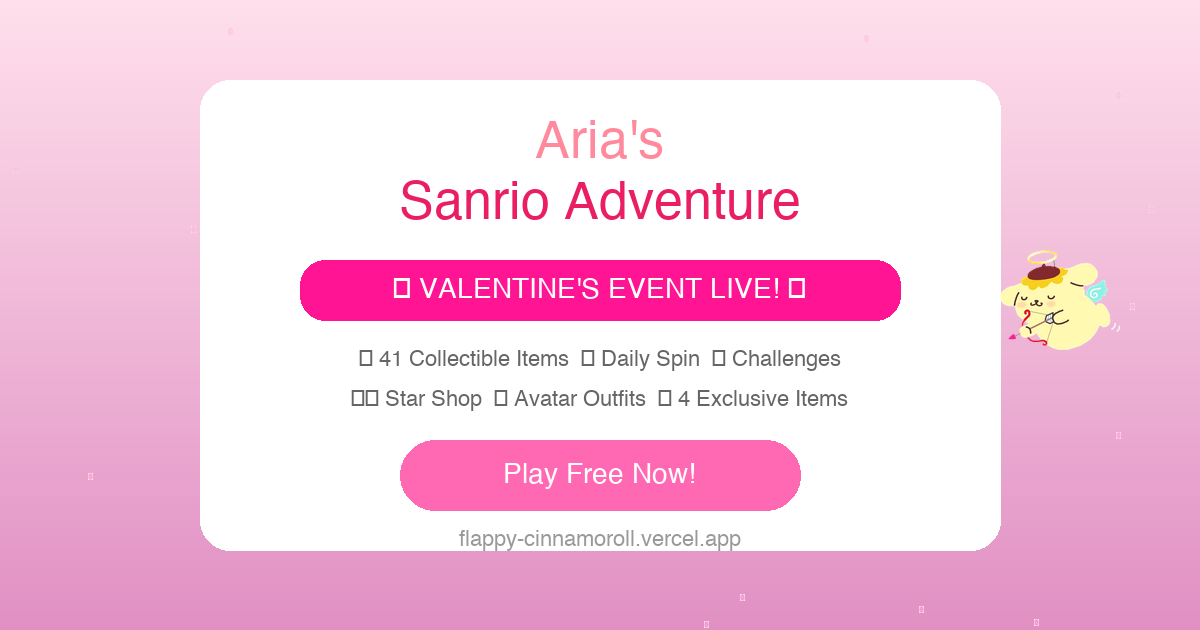
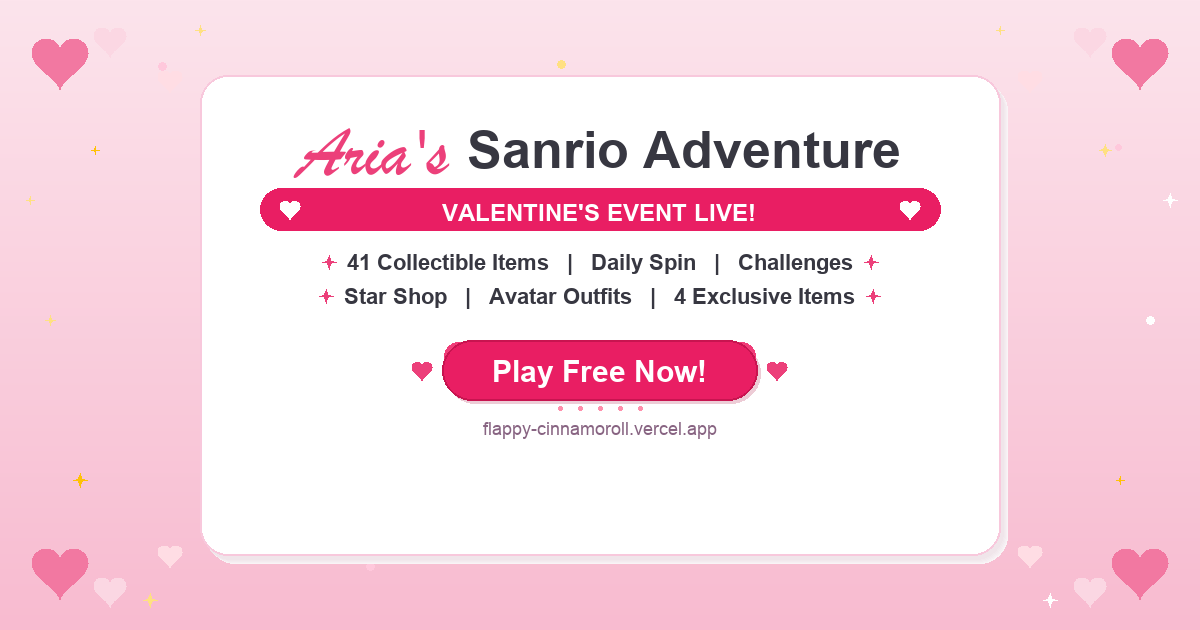
v10.2: blind box reveal upgrade, achievements polish, OG image fix
- Blind box reveal card: 180x220 → 240x290, full-width character images,
  pastel-tinted rarity backgrounds, drop rate pills, bigger text
- Achievements: static kawaii bg (no shaking), bigger cards 72→82px,
  larger fonts, warm tints for unlocked trophies
- OG image: regenerated without emojis (were rendering as tofu squares),
  now uses PIL-drawn hearts and sparkle shapes

diff --git a/index.html b/index.html
@@ -2341,7 +2341,7 @@ function drawHUD() {
   }
   // Version always visible
   X.fillStyle = 'rgba(255,255,255,0.4)'; X.font = 'bold 10px "Quicksand",sans-serif';
-  X.textAlign = 'right'; X.fillText('v10.1', W-8, H-8);
+  X.textAlign = 'right'; X.fillText('v10.2', W-8, H-8);
   // Backpack icon (top-left)
   drawBackpackIcon(14, 64);
 
@@ -2624,7 +2624,7 @@ function drawCollection() {
   X.fillText('Back', W/2, H - 30);
 
   X.fillStyle = 'rgba(0,0,0,0.2)'; X.font = 'bold 10px "Quicksand",sans-serif';
-  X.textAlign = 'right'; X.fillText('v10.1', W-14, H-12);
+  X.textAlign = 'right'; X.fillText('v10.2', W-14, H-12);
 }
 
 function drawBlindBoxScreen() {
@@ -2722,74 +2722,96 @@ function drawBlindBoxScreen() {
     const fadeIn = Math.min(1, bbState.timer * 3);
     X.globalAlpha = fadeIn;
 
-    // Rarity glow
-    const grd = X.createRadialGradient(W/2, H*0.35, 10, W/2, H*0.35, 140);
-    grd.addColorStop(0, rc + '66'); grd.addColorStop(1, 'transparent');
+    // Rarity glow behind card
+    const grd = X.createRadialGradient(W/2, H*0.38, 20, W/2, H*0.38, 180);
+    grd.addColorStop(0, rc + '44'); grd.addColorStop(1, 'transparent');
     X.fillStyle = grd; X.fillRect(0, 0, W, H);
 
-    // Card
-    X.fillStyle = '#fff'; rrc(W/2, H*0.35, 180, 220, 20);
-    X.strokeStyle = rc; X.lineWidth = 3;
+    // Card - bigger and pastel-tinted
+    const cardW = 240, cardH = 290, cardY = H*0.38, cardR = 22;
+    const rarityBg = {common:'#fff',rare:'#f0f8ff',epic:'#faf0ff',legendary:'#fffcf0',secret:'#fff0f5'};
+    X.fillStyle = rarityBg[r.rarity] || '#fff'; rrc(W/2, cardY, cardW, cardH, cardR);
+    // Rarity border
+    X.strokeStyle = rc; X.lineWidth = r.rarity==='legendary'||r.rarity==='secret' ? 4 : 3;
+    const chw=cardW/2, chh=cardH/2;
     X.beginPath();
-    const cw=90, ch=110;
-    X.moveTo(W/2-cw+20, H*0.35-ch); X.lineTo(W/2+cw-20, H*0.35-ch);
-    X.quadraticCurveTo(W/2+cw, H*0.35-ch, W/2+cw, H*0.35-ch+20);
-    X.lineTo(W/2+cw, H*0.35+ch-20); X.quadraticCurveTo(W/2+cw, H*0.35+ch, W/2+cw-20, H*0.35+ch);
-    X.lineTo(W/2-cw+20, H*0.35+ch); X.quadraticCurveTo(W/2-cw, H*0.35+ch, W/2-cw, H*0.35+ch-20);
-    X.lineTo(W/2-cw, H*0.35-ch+20); X.quadraticCurveTo(W/2-cw, H*0.35-ch, W/2-cw+20, H*0.35-ch);
+    X.moveTo(W/2-chw+cardR, cardY-chh); X.lineTo(W/2+chw-cardR, cardY-chh);
+    X.quadraticCurveTo(W/2+chw, cardY-chh, W/2+chw, cardY-chh+cardR);
+    X.lineTo(W/2+chw, cardY+chh-cardR); X.quadraticCurveTo(W/2+chw, cardY+chh, W/2+chw-cardR, cardY+chh);
+    X.lineTo(W/2-chw+cardR, cardY+chh); X.quadraticCurveTo(W/2-chw, cardY+chh, W/2-chw, cardY+chh-cardR);
+    X.lineTo(W/2-chw, cardY-chh+cardR); X.quadraticCurveTo(W/2-chw, cardY-chh, W/2-chw+cardR, cardY-chh);
     X.closePath(); X.stroke();
 
-    // Rarity banner
-    X.fillStyle = rc; X.font = 'bold 13px "Fredoka One",sans-serif'; X.textAlign = 'center';
+    // Rarity banner pill at top
     const banners = {common:'COMMON',rare:'RARE!',epic:'EPIC!!',legendary:'LEGENDARY!!!',secret:'SECRET!!!!!'};
-    X.fillText(banners[r.rarity] || 'COMMON', W/2, H*0.35 - 84);
+    const bLabel = banners[r.rarity] || 'COMMON';
+    X.fillStyle = rc; X.globalAlpha = fadeIn * 0.18; rrc(W/2, cardY - chh + 28, 120, 22, 11); X.globalAlpha = fadeIn;
+    X.fillStyle = rc; X.font = 'bold 14px "Fredoka One",sans-serif'; X.textAlign = 'center';
+    X.fillText(bLabel, W/2, cardY - chh + 32);
 
-    // Item visual
-    X.save(); X.translate(W/2, H*0.35 - 10);
-    if (si.charKey && imgs[si.charKey]) { drawImg(imgs[si.charKey], 0, 0, 72, 72); }
-    else { X.font = '48px sans-serif'; X.textAlign = 'center'; X.fillText(si.emoji, 0, 16); }
-    X.restore();
-
-    // Name
-    X.fillStyle = '#333'; X.font = 'bold 15px "Fredoka One",sans-serif'; X.textAlign = 'center';
-    X.fillText(si.name, W/2, H*0.35 + 68);
-    // NEW or count
-    if (r.isNew) {
-      X.fillStyle = '#ff1744'; X.font = 'bold 12px "Fredoka One",sans-serif';
-      X.fillText('✨ NEW! ✨', W/2, H*0.35 + 86);
+    // Character image - FULL CARD WIDTH (same approach as collection cards)
+    const imgY = cardY - 20;
+    if (si.charKey && imgs[si.charKey]) {
+      // Rarity glow behind character
+      if (r.rarity === 'legendary' || r.rarity === 'secret' || r.rarity === 'epic') {
+        X.save(); X.globalAlpha = fadeIn * 0.2;
+        X.fillStyle = r.rarity === 'legendary' ? '#ffd700' : r.rarity === 'secret' ? '#ff69b4' : '#ab47bc';
+        X.beginPath(); X.arc(W/2, imgY, 60, 0, Math.PI*2); X.fill();
+        X.restore(); X.globalAlpha = fadeIn;
+      }
+      drawImg(imgs[si.charKey], W/2, imgY, cardW - 40, 100);
     } else {
-      X.fillStyle = '#999'; X.font = '11px "Quicksand",sans-serif';
-      X.fillText('x' + r.count + (r.count >= 10 ? ' SHINY!' : ''), W/2, H*0.35 + 86);
+      X.font = '64px sans-serif'; X.textAlign = 'center'; X.fillText(si.emoji, W/2, imgY + 22);
     }
 
-    // Milestone share prompt on collection popup
+    // Name - big and bold
+    X.fillStyle = '#333'; X.font = 'bold 20px "Fredoka One",sans-serif'; X.textAlign = 'center';
+    X.fillText(si.name, W/2, cardY + 60);
+
+    // Rarity + drop rate pill
+    const dropPct = RARITY_TIERS.find(rt => rt.id === r.rarity);
+    const rlabel = tier.label.toUpperCase() + (dropPct ? ' ' + dropPct.dropRate + '%' : '');
+    X.fillStyle = rc; X.globalAlpha = fadeIn * 0.15; rrc(W/2, cardY + 80, 100, 18, 9); X.globalAlpha = fadeIn;
+    X.fillStyle = rc; X.font = 'bold 10px "Quicksand",sans-serif'; X.textAlign = 'center';
+    X.fillText(rlabel, W/2, cardY + 83);
+
+    // NEW or count
+    if (r.isNew) {
+      X.fillStyle = '#ff1744'; X.font = 'bold 14px "Fredoka One",sans-serif';
+      X.fillText('\u2728 NEW! \u2728', W/2, cardY + 104);
+    } else {
+      X.fillStyle = '#999'; X.font = '12px "Quicksand",sans-serif';
+      X.fillText('x' + r.count + (r.count >= 10 ? ' SHINY!' : ''), W/2, cardY + 104);
+    }
+
+    // Milestone share prompt
     const cc = getCollectedCount();
     const milestones = [5, 10, 20, 30];
     if (r.isNew && milestones.includes(cc)) {
-      X.fillStyle = '#ff6b00'; X.font = 'bold 12px "Fredoka One",sans-serif'; X.textAlign = 'center';
-      X.fillText('\uD83C\uDF89 ' + cc + ' items collected!', W/2, H*0.35 + 102);
-      X.fillStyle = '#25d366'; X.font = 'bold 11px "Quicksand",sans-serif';
-      X.fillText('\uD83D\uDCF2 Tell your friends!', W/2, H*0.35 + 118);
+      X.fillStyle = '#ff6b00'; X.font = 'bold 13px "Fredoka One",sans-serif'; X.textAlign = 'center';
+      X.fillText('\uD83C\uDF89 ' + cc + ' items collected!', W/2, cardY + 122);
+      X.fillStyle = '#25d366'; X.font = 'bold 12px "Quicksand",sans-serif';
+      X.fillText('\uD83D\uDCF2 Tell your friends!', W/2, cardY + 140);
     }
 
     X.globalAlpha = 1;
 
     // Buttons
-    const btnBase = H*0.35 + 130 + (r.isNew && milestones.includes(cc) ? 30 : 0);
+    const btnBase = cardY + chh + 30 + (r.isNew && milestones.includes(cc) ? 20 : 0);
     if (saveData.stars >= 5) {
-      X.fillStyle = '#3f51b5'; rrc(W/2, btnBase, 220, 40, 20);
-      X.fillStyle = '#fff'; X.font = 'bold 14px "Fredoka One",sans-serif'; X.textAlign = 'center';
-      X.fillText('Open Another (5⭐)', W/2, btnBase + 2);
+      X.fillStyle = '#3f51b5'; rrc(W/2, btnBase, 230, 44, 22);
+      X.fillStyle = '#fff'; X.font = 'bold 15px "Fredoka One",sans-serif'; X.textAlign = 'center';
+      X.fillText('Open Another (5\u2B50)', W/2, btnBase + 3);
     }
     // Share button for milestones
     if (r.isNew && milestones.includes(cc)) {
-      X.fillStyle = '#25d366'; rrc(W/2, btnBase + 48, 180, 34, 17);
-      X.fillStyle = '#fff'; X.font = 'bold 12px "Fredoka One",sans-serif'; X.textAlign = 'center';
-      X.fillText('\uD83D\uDCF2 Share Milestone!', W/2, btnBase + 50);
+      X.fillStyle = '#25d366'; rrc(W/2, btnBase + 52, 190, 38, 19);
+      X.fillStyle = '#fff'; X.font = 'bold 13px "Fredoka One",sans-serif'; X.textAlign = 'center';
+      X.fillText('\uD83D\uDCF2 Share Milestone!', W/2, btnBase + 54);
     }
-    X.fillStyle = 'rgba(255,255,255,0.3)'; rrc(W/2, btnBase + (r.isNew && milestones.includes(cc) ? 90 : 50), 120, 36, 18);
-    X.fillStyle = '#fff'; X.font = 'bold 13px "Fredoka One",sans-serif'; X.textAlign = 'center';
-    X.fillText('Close', W/2, btnBase + (r.isNew && milestones.includes(cc) ? 92 : 52));
+    X.fillStyle = 'rgba(255,255,255,0.3)'; rrc(W/2, btnBase + (r.isNew && milestones.includes(cc) ? 96 : 54), 130, 40, 20);
+    X.fillStyle = '#fff'; X.font = 'bold 14px "Fredoka One",sans-serif'; X.textAlign = 'center';
+    X.fillText('Close', W/2, btnBase + (r.isNew && milestones.includes(cc) ? 98 : 56));
   }
 }
 
@@ -2848,55 +2870,64 @@ function drawDailyRewards() {
 }
 
 function drawAchievements() {
-  drawBg();
-  X.fillStyle = 'rgba(255,255,255,0.95)'; rrc(W/2, H/2, W-20, H-40, 20);
+  // Static kawaii background
+  const abg = X.createLinearGradient(0, 0, 0, H);
+  abg.addColorStop(0, '#fce4ec'); abg.addColorStop(0.5, '#fff3e0'); abg.addColorStop(1, '#e8eaf6');
+  X.fillStyle = abg; X.fillRect(0, 0, W, H);
+  // Static decorative hearts
+  X.globalAlpha = 0.08; X.font = '28px sans-serif'; X.textAlign = 'center';
+  X.fillText('\u2764', 30, 100); X.fillText('\u2764', W-35, 180);
+  X.fillText('\u2764', 50, H-120); X.fillText('\u2764', W-50, H-200);
+  X.globalAlpha = 1;
+
+  X.fillStyle = 'rgba(255,255,255,0.92)'; rrc(W/2, H/2, W-16, H-32, 20);
 
   // Close X
   X.fillStyle = '#ff8a9e';
-  X.beginPath(); X.arc(W-24, 34, 16, 0, Math.PI*2); X.fill();
+  X.beginPath(); X.arc(W-22, 30, 16, 0, Math.PI*2); X.fill();
   X.fillStyle = '#fff'; X.font = 'bold 18px sans-serif'; X.textAlign = 'center'; X.textBaseline = 'middle';
-  X.fillText('✕', W-24, 34); X.textBaseline = 'alphabetic';
+  X.fillText('\u2715', W-22, 30); X.textBaseline = 'alphabetic';
 
-  X.fillStyle = '#e91e63'; X.font = 'bold 20px "Fredoka One",sans-serif'; X.textAlign = 'center';
-  X.fillText('🏆 Trophies 🏆', W/2, 52);
-  X.fillStyle = '#999'; X.font = 'bold 12px "Quicksand",sans-serif';
-  X.fillText(getAchievementCount()+'/'+ACHIEVEMENTS_DEF.length+' Unlocked', W/2, 72);
+  X.fillStyle = '#e91e63'; X.font = 'bold 22px "Fredoka One",sans-serif'; X.textAlign = 'center';
+  X.fillText('\uD83C\uDFC6 Trophies \uD83C\uDFC6', W/2, 52);
+  X.fillStyle = '#999'; X.font = 'bold 13px "Quicksand",sans-serif';
+  X.fillText(getAchievementCount()+'/'+ACHIEVEMENTS_DEF.length+' Unlocked', W/2, 74);
 
-  // 2-column grid
-  const cols = 2, pad = 12, cardW = (W - pad*3)/cols, cardH = 72;
+  // 2-column grid - bigger cards
+  const cols = 2, pad = 14, cardW = (W - pad*3)/cols, cardH = 82;
   ACHIEVEMENTS_DEF.forEach((ach, i) => {
     const col = i % cols, row = Math.floor(i / cols);
     const cx = pad + col * (cardW + pad) + cardW/2;
-    const cy = 100 + row * (cardH + 8) + cardH/2;
+    const cy = 104 + row * (cardH + 8) + cardH/2;
     const unlocked = saveData.achievements[ach.id]?.unlocked;
-    X.fillStyle = unlocked ? '#fff' : '#f5f5f5'; rrc(cx, cy, cardW-4, cardH-4, 10);
-    X.strokeStyle = unlocked ? '#ffd700' : '#eee'; X.lineWidth = unlocked ? 2 : 1;
-    X.beginPath();
+    X.fillStyle = unlocked ? '#fffcf0' : '#f8f8f8'; rrc(cx, cy, cardW-4, cardH-4, 12);
+    X.strokeStyle = unlocked ? '#ffd700' : '#eee'; X.lineWidth = unlocked ? 2.5 : 1;
     const hw=(cardW-4)/2, hh=(cardH-4)/2;
-    X.moveTo(cx-hw+10,cy-hh); X.lineTo(cx+hw-10,cy-hh); X.quadraticCurveTo(cx+hw,cy-hh,cx+hw,cy-hh+10);
-    X.lineTo(cx+hw,cy+hh-10); X.quadraticCurveTo(cx+hw,cy+hh,cx+hw-10,cy+hh);
-    X.lineTo(cx-hw+10,cy+hh); X.quadraticCurveTo(cx-hw,cy+hh,cx-hw,cy+hh-10);
-    X.lineTo(cx-hw,cy-hh+10); X.quadraticCurveTo(cx-hw,cy-hh,cx-hw+10,cy-hh);
+    X.beginPath();
+    X.moveTo(cx-hw+12,cy-hh); X.lineTo(cx+hw-12,cy-hh); X.quadraticCurveTo(cx+hw,cy-hh,cx+hw,cy-hh+12);
+    X.lineTo(cx+hw,cy+hh-12); X.quadraticCurveTo(cx+hw,cy+hh,cx+hw-12,cy+hh);
+    X.lineTo(cx-hw+12,cy+hh); X.quadraticCurveTo(cx-hw,cy+hh,cx-hw,cy+hh-12);
+    X.lineTo(cx-hw,cy-hh+12); X.quadraticCurveTo(cx-hw,cy-hh,cx-hw+12,cy-hh);
     X.closePath(); X.stroke();
     // Badge
-    X.font = unlocked ? '24px sans-serif' : '20px sans-serif'; X.textAlign = 'center';
-    X.fillText(unlocked ? ach.badge : '❓', cx - cardW/2 + 28, cy + 8);
+    X.font = unlocked ? '28px sans-serif' : '22px sans-serif'; X.textAlign = 'center';
+    X.fillText(unlocked ? ach.badge : '\u2753', cx - cardW/2 + 30, cy + 10);
     // Text
-    X.fillStyle = unlocked ? '#333' : '#bbb'; X.font = 'bold 10px "Fredoka One",sans-serif'; X.textAlign = 'left';
-    X.fillText(unlocked ? ach.name : '???', cx - cardW/2 + 50, cy - 6);
-    X.fillStyle = unlocked ? '#888' : '#ccc'; X.font = '9px "Quicksand",sans-serif';
-    X.fillText(ach.desc, cx - cardW/2 + 50, cy + 8);
+    X.fillStyle = unlocked ? '#333' : '#bbb'; X.font = 'bold 11px "Fredoka One",sans-serif'; X.textAlign = 'left';
+    X.fillText(unlocked ? ach.name : '???', cx - cardW/2 + 54, cy - 8);
+    X.fillStyle = unlocked ? '#777' : '#ccc'; X.font = '10px "Quicksand",sans-serif';
+    X.fillText(ach.desc, cx - cardW/2 + 54, cy + 8);
     if (unlocked) {
       const d = new Date(saveData.achievements[ach.id].date);
-      X.fillStyle = '#bbb'; X.font = '8px "Quicksand",sans-serif';
-      X.fillText((d.getMonth()+1)+'/'+d.getDate()+'/'+d.getFullYear(), cx - cardW/2 + 50, cy + 20);
+      X.fillStyle = '#bbb'; X.font = '9px "Quicksand",sans-serif';
+      X.fillText((d.getMonth()+1)+'/'+d.getDate()+'/'+d.getFullYear(), cx - cardW/2 + 54, cy + 22);
     }
   });
 
   // Back button
-  X.fillStyle = '#ff8a9e'; rrc(W/2, H - 32, 120, 36, 18);
-  X.fillStyle = '#fff'; X.font = 'bold 14px "Fredoka One",sans-serif'; X.textAlign = 'center';
-  X.fillText('Back', W/2, H - 30);
+  X.fillStyle = '#ff8a9e'; rrc(W/2, H - 34, 130, 40, 20);
+  X.fillStyle = '#fff'; X.font = 'bold 15px "Fredoka One",sans-serif'; X.textAlign = 'center';
+  X.fillText('Back', W/2, H - 32);
 }
 
 function drawWhatsNew() {
@@ -2907,7 +2938,7 @@ function drawWhatsNew() {
   X.fillStyle = '#e91e63'; X.font = 'bold 22px "Fredoka One",sans-serif'; X.textAlign = 'center';
   X.fillText("🎉 What's New! 🎉", W/2, H/2 - 200);
   X.fillStyle = '#9c27b0'; X.font = 'bold 14px "Fredoka One",sans-serif';
-  X.fillText('v10.1 - Season 1: Sweet Dreams', W/2, H/2 - 172);
+  X.fillText('v10.2 - Season 1: Sweet Dreams', W/2, H/2 - 172);
 
   const features = [
     '\u2B50 Star Shop - buy power-up boosts!',
@@ -3595,7 +3626,7 @@ function drawMenu() {
   // Version (bottom-right, subtle)
   X.fillStyle = 'rgba(255,255,255,0.4)'; X.font = 'bold 10px "Quicksand",sans-serif';
   X.textAlign = 'right';
-  X.fillText('v10.1', W-10, H-8);
+  X.fillText('v10.2', W-10, H-8);
 }
 
 function drawResults() {
@@ -3656,7 +3687,7 @@ function drawResults() {
 
   // Version (subtle)
   X.fillStyle = 'rgba(255,255,255,0.4)'; X.font = 'bold 10px "Quicksand",sans-serif';
-  X.textAlign = 'right'; X.fillText('v10.1', W - 8, H - 8);
+  X.textAlign = 'right'; X.fillText('v10.2', W - 8, H - 8);
 }
 
 // Store button positions for results click handling
@@ -4291,7 +4322,7 @@ function loop(timestamp) {
 }
 
 // v7.0 Initialization: What's New + Daily popup
-if (saveData.lastVersion !== 'v10.1') { showWhatsNew = true; }
+if (saveData.lastVersion !== 'v10.2') { showWhatsNew = true; }
 else {
   const today = new Date().toISOString().slice(0,10);
   if (saveData.streak.lastClaimDate !== today) { showDaily = true; }
@@ -4373,7 +4404,7 @@ function handleTap(x, y) {
   // Overlay screens (highest priority)
   if (showWhatsNew) {
     if (Math.abs(x-W/2)<80 && Math.abs(y-(H/2+180))<22) {
-      showWhatsNew = false; saveData.lastVersion = 'v10.1'; saveGame();
+      showWhatsNew = false; saveData.lastVersion = 'v10.2'; saveGame();
       // Show daily after what's new
       const today = new Date().toISOString().slice(0,10);
       if (saveData.streak.lastClaimDate !== today) showDaily = true;
@@ -4420,25 +4451,26 @@ function handleTap(x, y) {
       const ccR = getCollectedCount();
       const milestonesR = [5, 10, 20, 30];
       const hasMilestone = r.isNew && milestonesR.includes(ccR);
-      const btnBase = H*0.35 + 130 + (hasMilestone ? 30 : 0);
+      const cardY = H*0.38, chh = 145;
+      const btnBase = cardY + chh + 30 + (hasMilestone ? 20 : 0);
       // Open Another
-      if (saveData.stars >= 5 && Math.abs(x-W/2)<110 && Math.abs(y-btnBase)<22) {
+      if (saveData.stars >= 5 && Math.abs(x-W/2)<115 && Math.abs(y-btnBase)<24) {
         bbState = { phase:'select' }; return;
       }
       // Share Milestone button
-      if (hasMilestone && Math.abs(x-W/2)<90 && Math.abs(y-(btnBase+48))<18) {
+      if (hasMilestone && Math.abs(x-W/2)<95 && Math.abs(y-(btnBase+52))<20) {
         openShare();
         return;
       }
       // Close
-      const closeY = btnBase + (hasMilestone ? 90 : 50);
-      if (Math.abs(x-W/2)<60 && Math.abs(y-closeY)<20) { showBlindBox = false; bbState = null; return; }
+      const closeY = btnBase + (hasMilestone ? 96 : 54);
+      if (Math.abs(x-W/2)<65 && Math.abs(y-closeY)<22) { showBlindBox = false; bbState = null; return; }
     }
     return;
   }
   if (showAchievements) {
-    if (Math.abs(x-W/2)<60 && Math.abs(y-(H-32))<20) { showAchievements = false; return; }
-    if (Math.abs(x-(W-24))<18 && Math.abs(y-34)<18) { showAchievements = false; return; }
+    if (Math.abs(x-W/2)<65 && Math.abs(y-(H-34))<22) { showAchievements = false; return; }
+    if (Math.abs(x-(W-22))<18 && Math.abs(y-30)<18) { showAchievements = false; return; }
     return;
   }
   if (showShowcase) {
